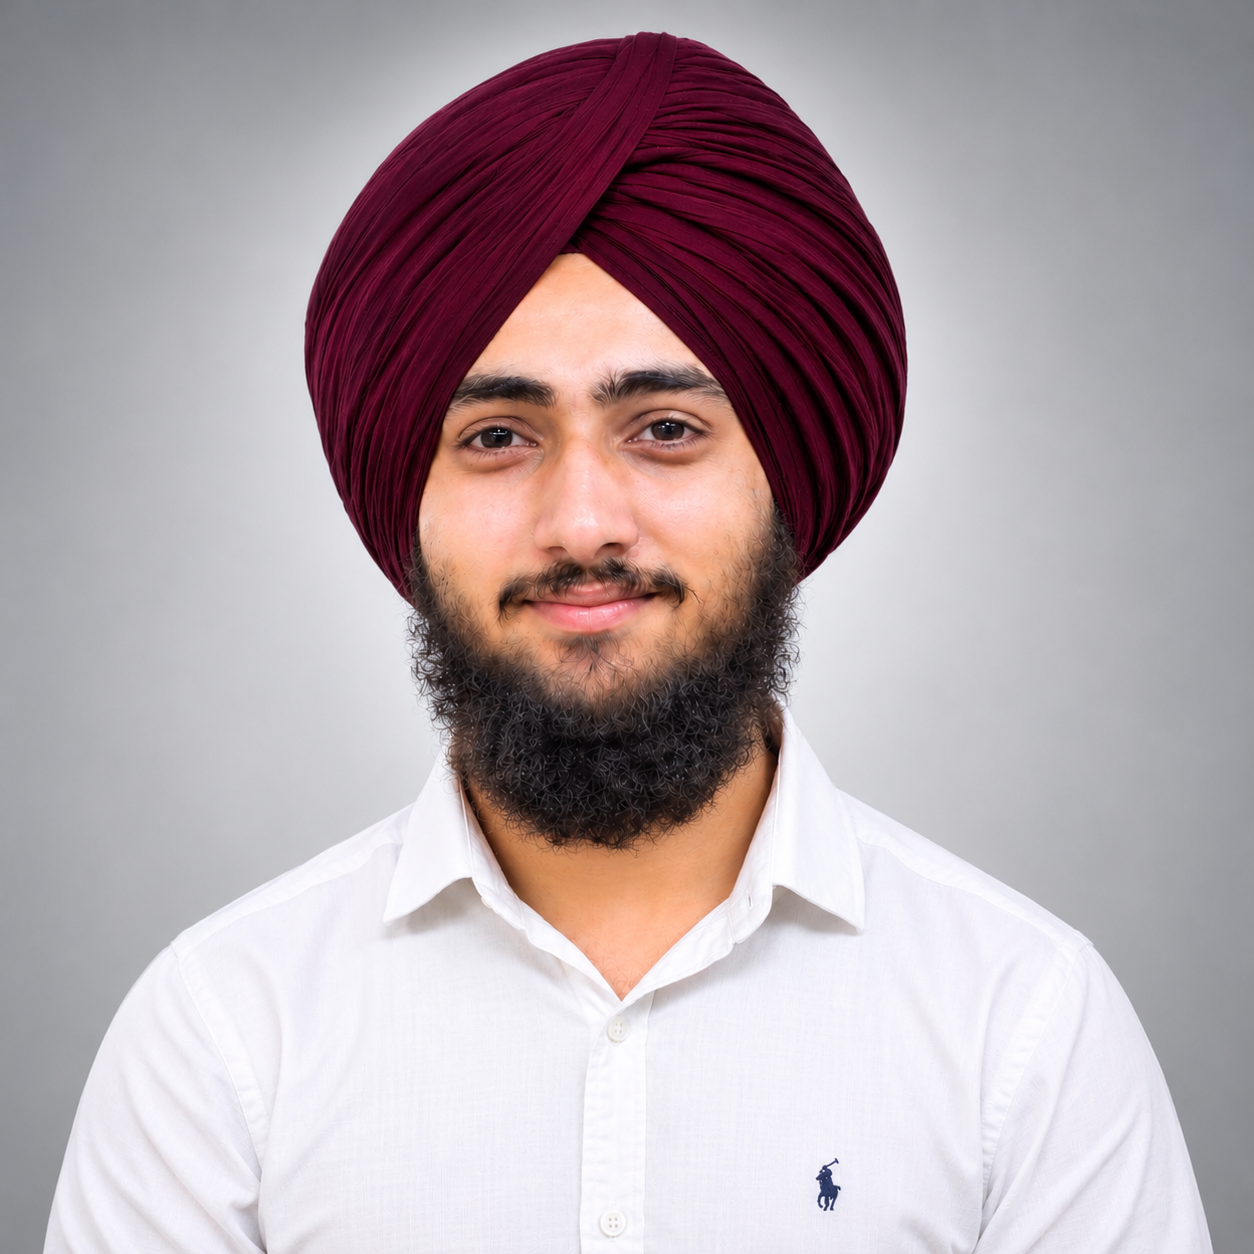
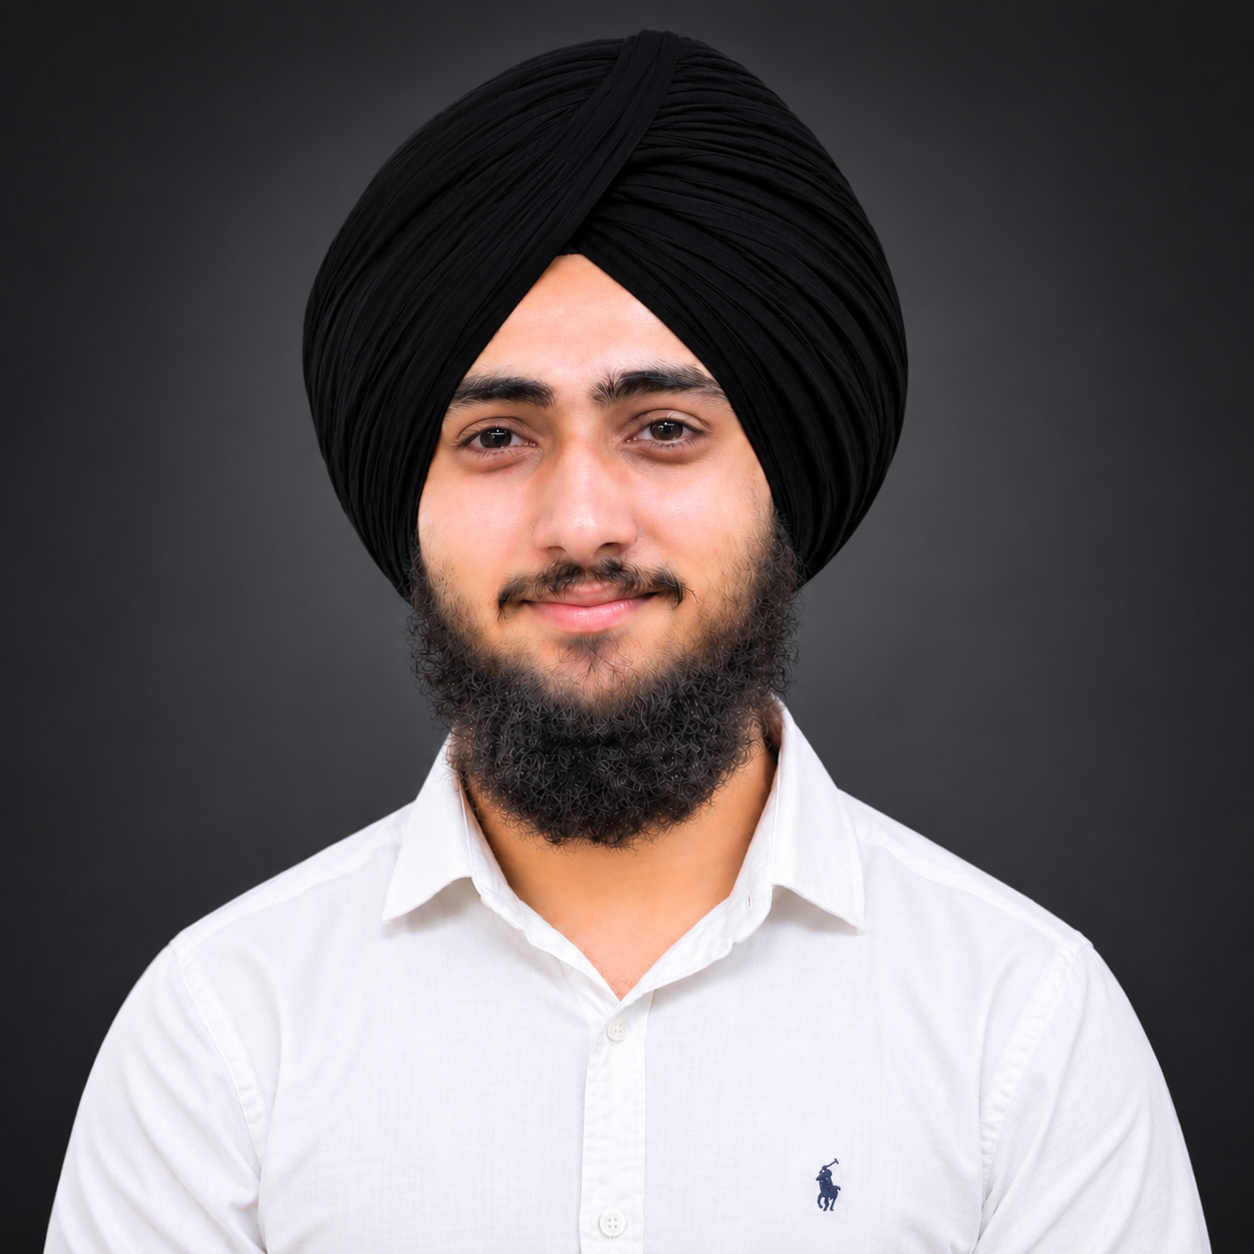
Complete portfolio styling and update profile image

diff --git a/index.html b/index.html
@@ -7,6 +7,11 @@
     <meta name="description" content="Lovepreet Singh's developer portfolio and learning journey.">
 
     <title>Lovepreet Singh | Developer Portfolio</title>
+    <link rel="preconnect" href="https://fonts.googleapis.com">
+    <link rel="preconnect" href="https://fonts.gstatic.com" crossorigin>
+    <link
+        href="https://fonts.googleapis.com/css2?family=Inter:ital,opsz,wght@0,14..32,100..900;1,14..32,100..900&display=swap"
+        rel="stylesheet">
     <link rel="stylesheet" href="style.css">
 </head>
 
@@ -24,40 +29,33 @@
                 <li><a href="#contact">Contact</a></li>
             </ul>
         </nav>
+
+        <!-- Introduction -->
         <section id="introduction">
 
-    <div class="hero-content">
+            <div class="hero-content">
 
-        <h1>Hi, I am Lovepreet Singh</h1>
+                <h1>Hi, I am Lovepreet Singh</h1>
 
-        <p>
-            I am a B.Tech Information Technology student interested in
-            <span>backend development</span>,
-            <span>systems</span>, and
-            <span>AI/ML</span>.
-        </p>
+                <p>
+                    I'm a B.Tech IT student interested in backend development, systems, and AI/ML, focused on
+                    strengthening my programming and problem-solving skills through practical projects.
+                </p>
 
-        <p>
-            I am building my programming and problem-solving skills
-            by learning concepts and applying them through practical projects.
-        </p>
+            </div>
 
-    </div>
+            <div class="hero-image">
+                <img src="images/profile.png" alt="Lovepreet Singh">
+            </div>
 
-    <div class="hero-image">
-        <img src="images/profile.png" alt="Lovepreet Singh">
-    </div>
-
-</section>
+        </section>
     </header>
-    <hr>
 
     <!-- Education Section -->
     <main>
         <section id="education">
             <h2>Education</h2>
-            <table>
-                <caption>Qualification Record</caption>
+            <table id="education-table">
                 <thead>
                     <tr>
                         <th>Qualification</th>
@@ -88,27 +86,24 @@
                 </tbody>
             </table>
         </section>
-        <hr>
 
         <!-- Skills Section -->
         <section id="skills">
             <h2>My Skills</h2>
 
             <ul>
-                <li><a href="https://cppreference.com/">C++</a> — Fundamentals, arrays, searching, sorting, and basic
+                <li><strong>C++</strong> — Fundamentals, arrays, searching, sorting, and basic
                     DSA
                     practice.</li>
-                <li><a href="https://developer.mozilla.org/en-US/docs/Web/HTML">HTML</a> — Learning page structure and
+                <li><strong>HTML</strong> — Learning page structure and
                     core
                     HTML
                     elements.</li>
-                <li><a href="https://www.python.org/doc/">Python</a> — Basics of data handling with pandas and
-                    Matplotlib.
+                <li><strong>Python</strong> — Basics of data handling with pandas and Matplotlib.
                 </li>
-                <li><a href="https://www.postgresql.org/docs">SQL</a> — Foundational database knowledge.</li>
+                <li><strong>SQL</strong> — Foundational database knowledge.</li>
             </ul>
         </section>
-        <hr>
 
         <!-- Hobbies Section -->
         <section id="hobbies">
@@ -118,7 +113,6 @@
                 <li>Reading Sikh History</li>
             </ul>
         </section>
-        <hr>
 
         <!-- Learning Journey Section -->
         <section id="learning-journey">
@@ -129,13 +123,11 @@
                 my progress through this portfolio.
             </p>
         </section>
-        <hr>
         <!-- Projects Section -->
         <section id="projects">
             <h2>Projects</h2>
             <p>Project details will be added as I build and complete projects.</p>
         </section>
-        <hr>
 
         <!-- Contact Section -->
         <section id="contact">
@@ -147,7 +139,8 @@
                 </div>
                 <div>
                     <label for="email">Email</label>
-                    <input type="email" name="email" id="email" placeholder="Enter your email" required autocomplete="email">
+                    <input type="email" name="email" id="email" placeholder="Enter your email" required
+                        autocomplete="email">
                 </div>
                 <div>
                     <label for="reason">Reason for Contact</label>
@@ -168,9 +161,8 @@
             </form>
         </section>
     </main>
-    <hr>
     <footer>
-        <p>&copy; 2026 Lovepreet Singh. All rights reserved.</p>
+    <p>&copy; 2026 Lovepreet Singh. All rights reserved.</p>
     </footer>
 
 </body>

diff --git a/style.css b/style.css
@@ -1,4 +1,3 @@
-
 /* Global Styles */
 * {
     font-family: 'Inter', sans-serif;
@@ -11,8 +10,171 @@ body {
     color: #F1F5F9;
 }
 
+/* Navbar */
 nav ul li {
     display: inline-block;
+    margin: 16px 10px 10px 10px;
+}
+
+nav ul {
     text-align: center;
 }
 
+nav ul li a {
+    text-decoration: none;
+    color: #F1F5F9;
+}
+
+nav ul li a:hover {
+    color: #60A5FA;
+    text-decoration: underline;
+}
+
+/* Hero Section */
+.hero-image img {
+    width: 200px;
+    border-radius: 50%;
+}
+
+#introduction {
+    text-align: center;
+    padding-bottom: 24px;
+}
+
+.hero-content {
+    width: 60%;
+    margin: 0 auto;
+}
+
+.hero-content h1 {
+    margin-bottom: 12px;
+    line-height: 1.3;
+}
+
+.hero-content p {
+    line-height: 1.6;
+}
+
+.hero-image {
+    margin-top: 20px;
+}
+
+/* Main Sections */
+h2 {
+    font-size: 24px;
+    font-weight: 600;
+    margin-bottom: 20px;
+    display: inline-block;
+    border-bottom: 3px solid #F1F5F9;
+    padding-bottom: 5px;
+}
+
+main {
+    padding-left: 20px;
+    padding-right: 20px;
+}
+
+main section {
+    margin-bottom: 40px;
+}
+
+/* Table Design */
+#education-table th {
+    font-weight: 600;
+}
+
+#education-table {
+    width: 80%;
+    margin: 0 auto;
+}
+
+#education-table th, #education-table td {
+    padding: 10px;
+}
+
+#education-table th:nth-child(1), #education-table td:nth-child(1) {
+    text-align: left;
+}
+
+#education-table th:nth-child(2), #education-table td:nth-child(2) {
+    text-align: left;
+}
+
+#education-table th:nth-child(3), #education-table td:nth-child(3) {
+    text-align: center;
+}
+
+#education-table th:nth-child(4), #education-table td:nth-child(4) {
+    text-align: center;
+}
+
+/* Lists */
+ul {
+    margin: 10px;
+}
+
+ul li {
+    line-height: 2;
+}
+
+/* Contact Form */
+#contact form {
+    width: 60%;
+    margin: 0 auto;
+    border: 2px solid #334155;
+    padding: 25px;
+    border-radius: 15px;
+}
+
+#contact form label {
+    font-size: 16px;
+    font-weight: 500;
+    display: block;
+}
+
+#contact form :is(input, select, textarea) {
+    background-color: #161B22;
+    color: #F1F5F9;
+    width: 80%;
+    margin: 20px;
+    margin-left: 0;
+    padding: 10px;
+    border-radius: 15px;
+    outline: none;
+}
+
+#contact form :is(input, select, textarea):focus {
+    outline: 2px solid #F1F5F9;
+}
+
+#contact form button {
+    padding: 10px;
+    border-radius: 15px;
+    text-align: center;
+}
+
+#contact form button:hover {
+    cursor: pointer;
+}
+
+#contact form div:has(input[required]) label::after {
+    content: " *";
+    color: red;
+
+}
+
+#contact form div:has(select[required]) label::after {
+    content: " *";
+    color: red;
+
+}
+
+#contact form div:has(textarea[required]) label::after {
+    content: " *";
+    color: red;
+
+}
+/* Footer */
+footer p {
+    text-align: center;
+}
